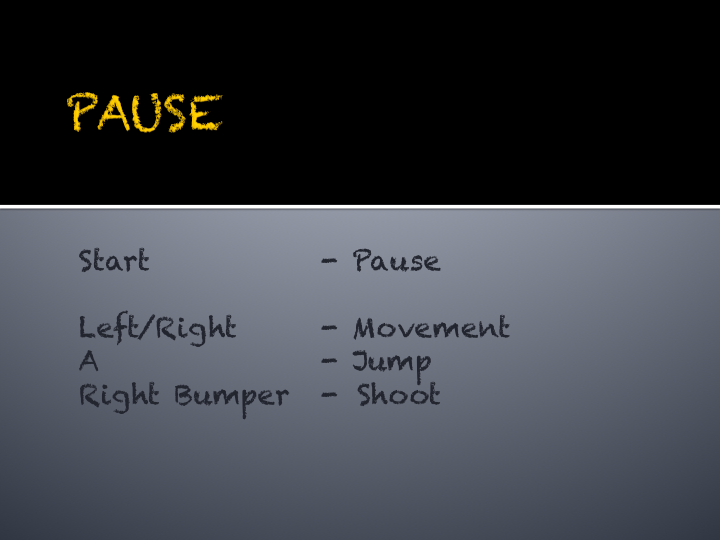
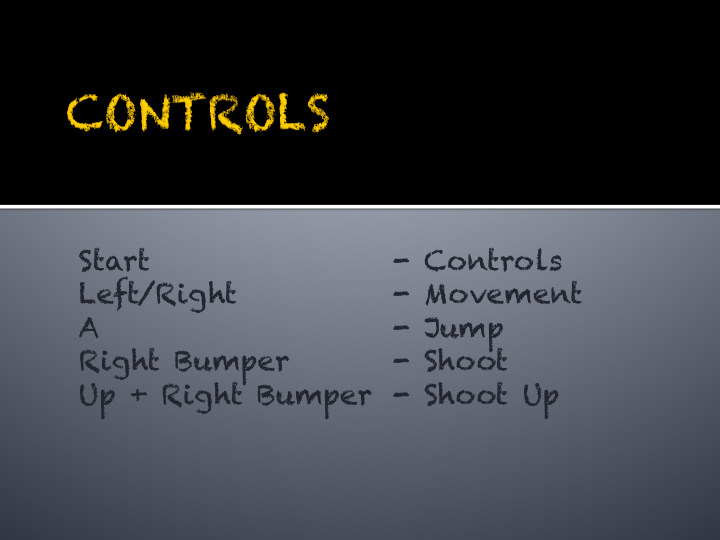
Graphical improvements and bugfixes.

diff --git a/Game1.cs b/Game1.cs
@@ -157,7 +157,7 @@ namespace Puddle
             if (controls.onPress(Keys.Escape, Buttons.Back))
                 Exit();
 
-            if (controls.onPress(Keys.Enter, Buttons.Start))
+			if (controls.onPress(Keys.Enter, Buttons.Start) && !intro)
                 paused = !paused;
 
             player1.Update(controls, level, this.Content, gameTime);
@@ -240,16 +240,17 @@ namespace Puddle
                 // Draw contents of the level
                 level.Draw(spriteBatch);
 
-                if (paused)
+				if (paused)
                 {
                     spriteBatch.Draw(
-                        pauseScreens[player1.numPowers],
+
+						pauseScreens[player1.numPowers],
                         new Rectangle(
                         0, graphics.PreferredBackBufferHeight/2 - 270,
                         720,
                         540
                         ),
-                        Color.White * 0.7f
+						Color.White * 0.8f
                     );
                 }
 

diff --git a/Objects/Player.cs b/Objects/Player.cs
@@ -21,7 +21,6 @@ namespace Puddle
         public Dictionary<string, bool> powerup;
         public string newMap;
 		public bool piped;
-        public int numPowers;
         public string pauseScreen;
         private bool powerShotCharging;
         public int lives;
@@ -75,7 +74,6 @@ namespace Puddle
             powerup["jetpack"] = false;
             powerup["charged"] = false;
 
-            numPowers = 1;
             lives = NUM_LIVES;
             moving = false;
             grounded = false;
@@ -144,6 +142,22 @@ namespace Puddle
         {
             get { return (puddled && frameIndex == 5 * 32); }
         }
+
+		public int numPowers
+		{
+			get 
+			{
+				int output = 0;
+				if (powerup["jetpack"])
+					output++;
+				if (powerup["puddle"])
+					output++;
+				if (powerup["charged"])
+					output++;
+
+				return output;
+			}
+		}
 
         public void Update(Controls controls, Level level, 
             ContentManager content, GameTime gameTime)

diff --git a/Enemies/Enemy.cs b/Enemies/Enemy.cs
@@ -16,6 +16,7 @@ namespace Puddle
         public int seed;
 		public int speed;
         public int health;
+		public int hurt_point;
 		public bool grounded;
 		protected Random rnd;
 
@@ -28,6 +29,7 @@ namespace Puddle
             y_vel = 0;
             health = 3;
 			grounded = false;
+			hurt_point = 0;
 
             // Sprite business
             rnd = new Random();
@@ -98,7 +100,7 @@ namespace Puddle
 			}
 		}
 
-		public void Jump(Level level)
+		public virtual void Jump(Level level)
 		{
 			y_vel = -9;
 			grounded = false;
@@ -106,7 +108,8 @@ namespace Puddle
 
 		public virtual void Animate(Level level)
         {
-            frameIndex = ((level.count + seed) / 8 % 4) * 32;
+			if ((level.count - hurt_point) > 2)
+				spriteColor = Color.White;
         }
 
     }

diff --git a/Objects/PowerUp.cs b/Objects/PowerUp.cs
@@ -20,10 +20,15 @@ namespace Puddle
             name = obj.Name.ToLower();
         }
 
+		public override void Update(Level level)
+		{
+			if (level.player.powerup[name])
+				destroyed = true;
+		}
+
 		public void Action(Player player, Level level)
         {
             player.powerup[name] = true;
-            player.numPowers += 1;
 			level.message_point = level.count;
 			if (name == "jetpack")
 				level.message = "Press and hold the jump button to jetpack!";

diff --git a/Enemies/Bird.cs b/Enemies/Bird.cs
@@ -22,7 +22,8 @@ namespace Puddle
 		public Bird(int x, int y)
 			: base(x, y)
 		{
-			this.imageFile = "Bird.png";
+			imageFile = "Bird.png";
+			collisionHeight = 20;
 			speed = 3;
 			x_vel = speed;
 			y_vel = 0;
@@ -95,6 +96,7 @@ namespace Puddle
 				}
 			}
 
+			base.Animate(level);
 		}
     }
 }

diff --git a/Objects/Button.cs b/Objects/Button.cs
@@ -127,7 +127,7 @@ namespace Puddle
             if (name.Contains("Controls"))
             {
                 this.controlScreen = true;
-                slideImage = content.Load<Texture2D>("controls.png");
+				slideImage = content.Load<Texture2D>("pause0.png");
                 return;
             }
 

diff --git a/Objects/Shot.cs b/Objects/Shot.cs
@@ -45,6 +45,8 @@ namespace Puddle
                 {
                     destroyed = true;
                     e.health -= damage;
+					e.spriteColor = Color.Red;
+					e.hurt_point = level.count;
                 }
             }
 

diff --git a/Enemies/Rat.cs b/Enemies/Rat.cs
@@ -53,6 +53,7 @@ namespace Puddle
 		public override void Animate(Level level)
         {
             frameIndex = ((level.count + seed) / 8 % 4) * 32;
+			base.Animate(level);
         }
 
     }

diff --git a/Enemies/Hand.cs b/Enemies/Hand.cs
@@ -46,6 +46,8 @@ namespace Puddle
 	
             // Be killed if necessary
             destroyed = (health <= 0);
+
+			Animate(level);
         }
 			
 		public override void Move(Level level)

diff --git a/Enemies/Face.cs b/Enemies/Face.cs
@@ -55,6 +55,8 @@ namespace Puddle
 				}
 				level.player.newMap = "Content/Level6.tmx";
 			}
+
+			Animate(level);
         }
 			
 		// Shoot 4 fireballs in all directions
